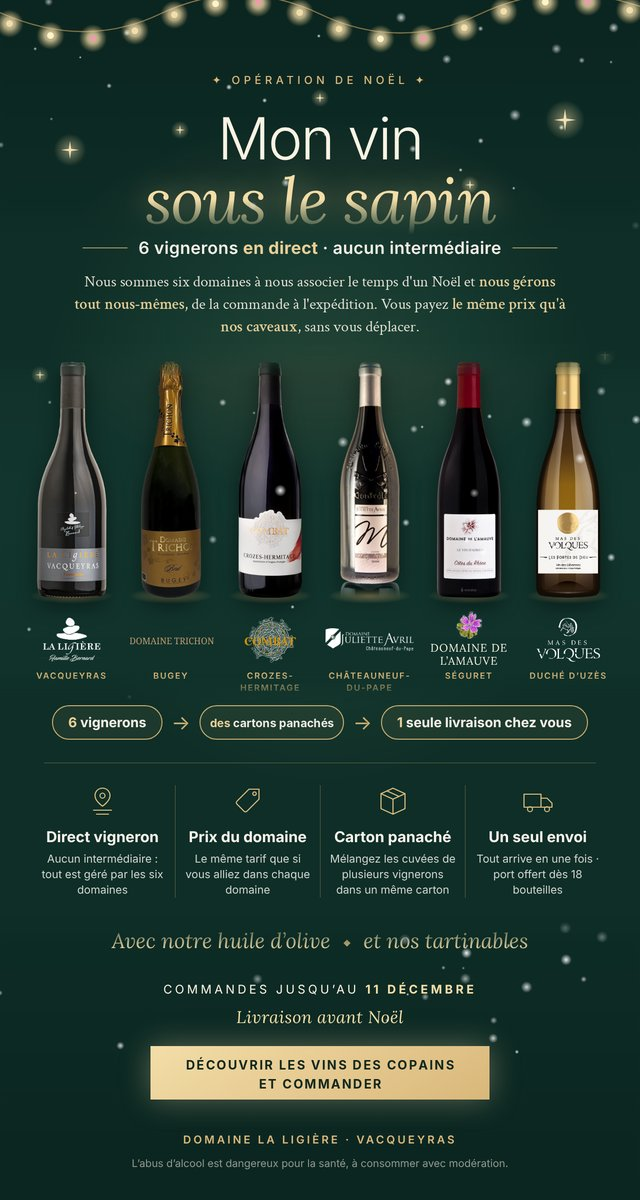
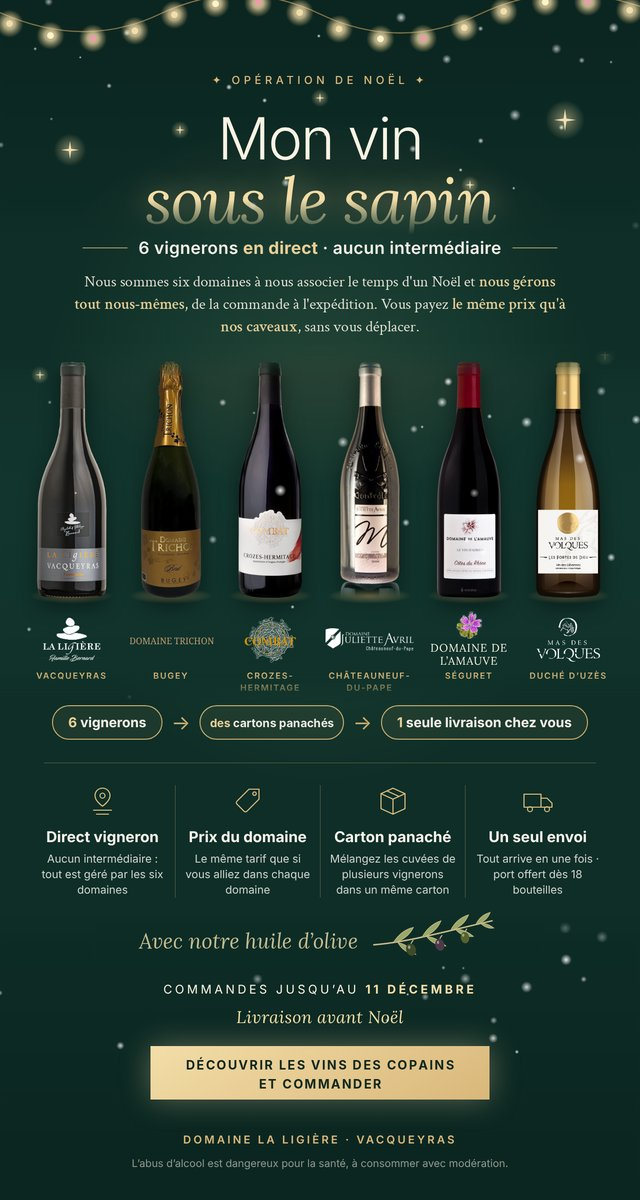
Onglet « Notre huile d'olive » (75 cl, 22 €), mise à jour des cuvées, prix et millésimes, zoom sur les bouteilles, visuel avec rameau d'olivier
Claude-Session: https://claude.ai/code/session_016Jhk7mVKL7LLXBijkLCSDG

Changed region(s): [[0.1875, 0.74, 0.8125, 0.8017]]

diff --git a/index.html b/index.html
@@ -182,12 +182,37 @@ footer{color:#d8d0c2;border-top-color:rgba(243,217,160,.25)}
 .tabs a{opacity:1;font-size:16px;font-weight:700;letter-spacing:.01em;color:#fff;text-shadow:0 1px 2px rgba(0,0,0,.35);border:2px solid rgba(255,255,255,.7)}
 .tabs a:hover,.tabs a:focus-visible{border-color:#f3d9a0;filter:brightness(1.15);box-shadow:0 0 0 3px rgba(243,217,160,.35)}
 .tabs a[aria-current=page]{border-width:3px;border-color:#f3d9a0;box-shadow:0 0 0 3px rgba(243,217,160,.45)}
+
+/* Zoom sur la bouteille au survol */
+.card{overflow:visible}
+.vis{border-radius:12px 0 0 12px;position:relative;z-index:1}
+.vis img{transition:transform .35s ease,filter .35s ease;transform-origin:center center;cursor:zoom-in;position:relative}
+.vis img:hover{transform:scale(2.1);z-index:6;filter:drop-shadow(0 14px 22px rgba(0,0,0,.35))}
+.card:has(.vis img:hover){z-index:5}
+@media(prefers-reduced-motion:reduce){.vis img{transition:none}}
+
+/* Onglet huile d'olive */
+#vHuile,#vCmd{min-height:calc(100vh - 60px)}
+#tHuile{background:#5f6f22}
+body[data-view=huile]{--gr:#4f5d1c;background-color:#1a2410}
+body[data-view=huile] .tabs,body[data-view=huile] header{background-color:#4f5d1c}
+.oilwrap{display:grid;grid-template-columns:minmax(0,260px) minmax(0,1fr);gap:clamp(20px,4vw,48px);align-items:center;background:var(--card);border-radius:18px;padding:clamp(18px,3vw,40px);border:2px solid rgba(243,217,160,.4);box-shadow:0 18px 50px rgba(0,0,0,.35)}
+.oilpic{display:flex;justify-content:center;background:radial-gradient(circle at 50% 60%,#f4efd8,#fff 70%);border-radius:14px;padding:20px}
+.oilpic img{height:340px;width:auto;transition:transform .35s ease;cursor:zoom-in}.oilpic img:hover{transform:scale(1.25)}
+.oilkick{margin:0;color:#6b7a2a;font-weight:600;font-size:14px}
+#vHuile h2{font:400 clamp(30px,4vw,44px)/1.05 "DM Serif Display",Georgia,serif;margin:6px 0 10px}
+.oillead{font-size:17px;margin:0 0 14px;max-width:60ch}
+.oilbuy{display:flex;flex-wrap:wrap;gap:14px;align-items:center;margin-top:18px}
+.oilprice{font:600 30px Inter,sans-serif;color:#4f5d1c;white-space:nowrap}
+.oilgo{width:auto;margin-top:0;background:#4f5d1c;border-color:#4f5d1c}
+@media(max-width:700px){.oilwrap{grid-template-columns:minmax(0,1fr)}.oilpic img{height:260px}}
 </style>
 </head>
 <body>
 <div class="neige" aria-hidden="true"></div>
 <nav class="tabs" aria-label="Navigation">
   <a href="#tarif" id="tTarif">Découvrir les vins</a>
+  <a href="#huile" id="tHuile">Notre huile d'olive</a>
   <a href="#commande" id="tCmd">Commander <b id="tCount" hidden>0</b></a>
 </nav>
 <header class="band"><div class="wrap">
@@ -304,6 +329,21 @@ footer{color:#d8d0c2;border-top-color:rgba(243,217,160,.25)}
 <main class="band"><div class="grid" id="grid"></div></main>
 <div class="mini" id="mini" hidden><div class="mi-t"><b id="miq">0</b> bouteille(s) · <b id="mit">0 €</b><span id="mim"></span></div><a class="mi-go" href="#commande">Voir ma commande →</a></div>
 </div>
+<section id="vHuile" class="band" hidden><div class="wrap oilwrap">
+  <div class="oilpic"><img id="oilImg" src="img/ll-huile.webp" alt="Bouteille d'huile d'olive du Domaine La Ligière, 75 cl"></div>
+  <div class="oiltxt">
+    <p class="oilkick">Domaine La Ligière · Vacqueyras</p>
+    <h2>Notre huile d'olive</h2>
+    <p class="oillead">Nous cultivons nos oliviers à Vacqueyras, en agriculture biologique. Ajoutez notre huile à votre carton : elle se panache avec les vins.</p>
+    <div class="tags"><span class="tag">Huile d'olive vierge extra</span><span class="tag bio">Bio</span><span class="tag">Bouteille 75 cl</span></div>
+    <dl><div><dt>Dégustation</dt><dd>L'huile de nos oliviers, cultivés en agriculture biologique à Vacqueyras.</dd></div>
+    <div><dt>Accords</dt><dd>Salades, légumes grillés, poissons, ou tout simplement sur une tranche de pain grillé.</dd></div></dl>
+    <div class="oilbuy"><span class="oilprice">22 €</span>
+      <div class="qty"><button type="button" id="oilMinus" aria-label="Retirer une bouteille">−</button><input type="number" id="oilQ" min="1" value="1" aria-label="Nombre de bouteilles d'huile"><button type="button" id="oilPlus" aria-label="Ajouter une bouteille">+</button></div>
+      <button class="buy oilgo" id="oilAdd" type="button">Ajouter à ma commande</button></div>
+    <p class="sub" id="oilIn"></p>
+  </div>
+</div></section>
 <section id="vCmd" class="band" hidden><div class="wrap">
   <a class="back" href="#tarif">← Découvrir les vins</a>
   <ol class="steps" aria-label="Étapes de la commande"><li class="on"><b>1</b> Vos vins</li><li><b>2</b> Vos coordonnées</li><li><b>3</b> Envoi</li></ol>
@@ -346,7 +386,7 @@ footer{color:#d8d0c2;border-top-color:rgba(243,217,160,.25)}
 </div></section>
 
 <footer class="band"><div class="wrap">
-  <p>Prix TTC la bouteille 75 cl, sauf mention contraire. « Prix sur demande » : tarif non communiqué à ce jour.</p>
+  <p>Prix TTC la bouteille de 75 cl.</p>
   <p>Visuels non contractuels. Les descriptifs de dégustation et accords sont rédigés pour ce tarif.</p>
   <p>L'abus d'alcool est dangereux pour la santé, à consommer avec modération.</p>
 </div></footer>
@@ -360,16 +400,16 @@ const DCOL={[LL]:"#6d1b2e",[JA]:"#1f3d5c",[DC]:"#3c2a4d",[AM]:"#8a5a1f",[MV]:"#2
 const W=[
 {d:LL,a:"IGP Méditerranée",n:"Sud Absolu",c:"Blanc",img:"ll-sud-blanc",b:"BIO",m:"2024",p:8,g:"Assemblage de cépages blancs méditerranéens",t:"Vif et fruité, notes d'agrumes et de fleurs blanches.",x:"Apéritif, salades composées, poissons grillés."},
 {d:LL,a:"IGP Méditerranée",n:"Le Viognier",img:"ll-viognier",c:"Blanc",b:"BIO",m:"2026",p:10,g:"Viognier",v:1,t:"Nez d'abricot et de pêche blanche, bouche ronde et florale.",x:"Cuisine asiatique, volaille à la crème, chèvre frais."},
-{d:LL,a:"AOP Vacqueyras",n:"Le Chemin Blanc",img:"ll-chemin-blanc",c:"Blanc",b:"BIO",m:"2024",p:16,r:"Existe en magnum",g:"Grenache blanc, clairette, roussanne, viognier",t:"Ample, fruits jaunes et amande, finale fraîche.",x:"Saint-Jacques, poissons en sauce, volaille."},
+{d:LL,a:"AOP Vacqueyras",n:"Le Chemin Blanc",img:"ll-chemin-blanc",c:"Blanc",b:"BIO",r:"Existe en magnum",m:"2024",p:16,g:"Grenache blanc, clairette, roussanne, viognier",t:"Ample, fruits jaunes et amande, finale fraîche.",x:"Saint-Jacques, poissons en sauce, volaille."},
 {d:LL,a:"IGP Méditerranée",n:"Sud Absolu",c:"Rosé",img:"ll-sud-rose",b:"BIO",m:"2025",p:8,g:"Grenache, cinsault",t:"Léger et désaltérant, fruits rouges acidulés.",x:"Apéritif, grillades, cuisine d'été."},
 {d:LL,a:"AOP Vacqueyras",n:"La Ligière rosé",img:"ll-rose",c:"Rosé",b:"BIO",m:"2025",p:14,g:"Grenache, cinsault, syrah",t:"Rosé de gastronomie, structuré, fruits rouges et épices douces.",x:"Tapenade, tian provençal, cuisine épicée."},
 {d:LL,a:"IGP Méditerranée",n:"Le Canébier",img:"ll-canebier",c:"Rouge",b:"BIO",m:"2022",p:9,g:"Grenache, syrah, carignan",t:"Fruité et gourmand, à boire sur le fruit.",x:"Charcuterie, pizza, barbecue."},
 {d:LL,a:"AOP Côtes-du-Rhône",n:"Les Costebelles",img:"ll-costebelles",c:"Rouge",b:"BIO",m:"2024",p:10.5,g:"Grenache, syrah",t:"Fruits rouges, souple et digeste.",x:"Viandes blanches, pâtes, repas du quotidien."},
 {d:LL,a:"AOP Côtes-du-Rhône",n:"Les Capelles",img:"ll-capelles",c:"Rouge",b:"BIO",m:"2023",p:11.5,g:"Grenache, syrah, mourvèdre",t:"Fruits noirs, garrigue, tanins fondus.",x:"Côte de porc, lasagnes, fromages doux."},
-{d:LL,a:"AOP Beaumes-de-Venise",n:"Les Garennes",img:"ll-garennes",c:"Rouge",b:"BIO",m:"2024",p:14,r:"Existe en magnum",g:"Grenache, syrah",t:"Fraîcheur des Dentelles, fruits noirs et poivre.",x:"Agneau, gibier à plume, fromages affinés."},
+{d:LL,a:"AOP Beaumes-de-Venise",n:"Les Garennes",img:"ll-garennes",c:"Rouge",b:"BIO",r:"Existe en magnum",m:"2024",p:14,g:"Grenache, syrah",t:"Fraîcheur des Dentelles, fruits noirs et poivre.",x:"Agneau, gibier à plume, fromages affinés."},
 {d:LL,a:"AOP Vacqueyras",n:"Le Classique",img:"ll-classique",c:"Rouge",b:"BIO",m:"2024",p:14,g:"Grenache, syrah, mourvèdre",t:"Fruits noirs mûrs, épices et garrigue, belle structure.",x:"Daube provençale, gigot, côte de bœuf."},
-{d:LL,a:"AOP Vacqueyras",n:"Mourre de la Caille",img:"ll-mourre",c:"Rouge",b:"BIO",m:"2024",p:16,r:"Existe en magnum",g:"Grenache, syrah, mourvèdre",t:"Cuvée de terroir, concentrée : cassis, réglisse, thym.",x:"Gibier, bœuf braisé, plats truffés."},
-{d:LL,a:"AOP Vacqueyras",n:"Fumitarde",img:"ll-fumitarde",c:"Rouge",b:"BIO",m:"2023",p:18,r:"Existe en magnum",g:"Grenache, syrah, mourvèdre",t:"Puissant et profond, notes fumées et fruits confiturés.",x:"Civet, magret, plats mijotés."},
+{d:LL,a:"AOP Vacqueyras",n:"Mourre de la Caille",img:"ll-mourre",c:"Rouge",b:"BIO",r:"Existe en magnum",m:"2024",p:16,g:"Grenache, syrah, mourvèdre",t:"Cuvée de terroir, concentrée : cassis, réglisse, thym.",x:"Gibier, bœuf braisé, plats truffés."},
+{d:LL,a:"AOP Vacqueyras",n:"Fumitarde",img:"ll-fumitarde",c:"Rouge",b:"BIO",r:"Existe en magnum",m:"2023",p:18,g:"Grenache, syrah, mourvèdre",t:"Puissant et profond, notes fumées et fruits confiturés.",x:"Civet, magret, plats mijotés."},
 {d:LL,a:"AOP Vacqueyras",n:".G",img:"ll-g",c:"Rouge",b:"BIO",m:"2023",p:22,g:"Assemblage Vacqueyras",t:"Haut de gamme, dense et soyeux, beau potentiel de garde.",x:"Filet de bœuf, pigeon, fromages de caractère."},
 {d:LL,a:"AOP Gigondas",n:"Les Bergines",img:"ll-bergines",c:"Rouge",b:"BIO",m:"2023",p:22,g:"Grenache, syrah, mourvèdre",t:"Puissance et finesse, fruits noirs, épices, touche minérale.",x:"Gibier, agneau de sept heures, cèpes."},
 {d:LL,a:"AOP Muscat de Beaumes-de-Venise",n:"Chante Coucou Blanc",img:"ll-muscat-blanc",c:"Vin doux",s:"",b:"BIO",m:"2024",p:14,g:"Muscat à petits grains",v:1,t:"Vin doux naturel au nez explosif : fruits exotiques, agrumes confits, fleurs.",x:"Apéritif, foie gras, melon, desserts aux fruits."},
@@ -377,30 +417,24 @@ const W=[
 {d:LL,a:"AOP Côtes-du-Rhône",n:"Ad Terraneus",img:"ll-adterraneus",c:"Rouge",s:"Sans sulfites ajoutés",b:"BIO",m:"2023",p:13,g:"Grenache, syrah",t:"Fruit croquant, très digeste.",x:"Charcuterie, tapas, cuisine du marché."},
 {d:LL,a:"Vin de France",n:"C'est pas grave !",img:"ll-cestpasgrave",c:"Rouge",s:"Sans sulfites ajoutés",b:"BIO",m:"2023",p:12,g:"Assemblage de cépages rouges",t:"Gourmand et désaltérant.",x:"Apéro entre amis, burgers, grillades."},
 {d:LL,a:"IGP Méditerranée",n:"Insomnia",img:"ll-insomnia",c:"Rouge",s:"Sans sulfites ajoutés",b:"BIO",m:"2024",p:11,g:"Assemblage de cépages rouges méditerranéens",t:"Fruit pur et éclatant, souple.",x:"Viandes grillées, cuisine du monde."},
-{d:LL,a:"Boisson partiellement fermentée",n:"Je Veux des Bulles dans ma Vie",img:"ll-bulles",c:"Effervescent",s:"Low alcool",b:"BIO",m:"2025",p:10,r:"5,5 % vol.",g:"Raisin partiellement fermenté",t:"Bulles légères et fruitées, 5,5 % vol.",x:"Apéritif, brunch, desserts légers."},
+{d:LL,a:"Boisson partiellement fermentée",n:"Je Veux des Bulles dans ma Vie",img:"ll-bulles",c:"Effervescent",s:"Low alcool",b:"BIO",r:"5,5 % vol.",m:"2025",p:10,g:"Raisin partiellement fermenté",t:"Bulles légères et fruitées, 5,5 % vol.",x:"Apéritif, brunch, desserts légers."},
+{d:LL,oil:1,a:"Huile d'olive vierge extra",n:"Huile d'olive La Ligière",img:"ll-huile",c:"Huile d'olive",b:"BIO",p:22,r:"Bouteille 75 cl",g:"",t:"L'huile de nos oliviers, cultivés en agriculture biologique à Vacqueyras.",x:"Salades, légumes grillés, poissons, ou tout simplement sur une tranche de pain grillé."},
 {d:JA,a:"AOP Châteauneuf-du-Pape",n:"Cuvée Maxence",img:"ja-maxence",c:"Rouge",b:"HVE",m:"2018",p:43.5,g:"Grenache, syrah, mourvèdre",t:"Puissance, élégance et finesse, grande garde.",x:"Gibier, lièvre, plats truffés."},
 {d:JA,a:"AOP Châteauneuf-du-Pape",n:"Traditionnel",img:"ja-traditionnel",c:"Rouge",b:"HVE",m:"2022",p:30,g:"Grenache, syrah, mourvèdre",t:"La rondeur domine et gagne tout le palais, fruits noirs et épices.",x:"Agneau, bœuf en sauce, fromages affinés."},
 {d:JA,a:"AOP Cairanne",n:"Cuvée Maïlys",img:"ja-mailys",c:"Rouge",b:"HVE",m:"2021",p:15,g:"Grenache, syrah, mourvèdre",t:"Rond, ample et généreux, tanins souples et mûrs.",x:"Volaille rôtie, magret, ratatouille."},
 {d:JA,a:"AOP Côtes-du-Rhône Villages Plan de Dieu",n:"Cuvée Léandre",img:"ja-leandre",c:"Rouge",b:"HVE",m:"2021",p:12.5,g:"Grenache, syrah",t:"Belle concentration tannique, avec rondeur et souplesse.",x:"Grillades, côte de veau, terrines."},
 {d:JA,a:"AOP Côtes-du-Rhône",n:"Côtes-du-Rhône",img:"ja-cdr",c:"Rouge",b:"HVE",m:"2022",p:10.5,g:"Grenache, syrah",t:"Plus riche qu'un Côtes-du-Rhône classique, fruité et gourmand.",x:"Pizza, charcuterie, plats du quotidien."},
-{d:DC,a:"AOP Crozes-Hermitage",n:"Cuvée Domaine Blanc",img:"dc-blanc",c:"Blanc",b:"HVE",g:"Marsanne, roussanne",t:"Fleurs blanches et fruits jaunes, bouche ronde et fraîche.",x:"Poissons de rivière, volaille à la crème, chèvre."},
-{d:DC,a:"AOP Crozes-Hermitage",n:"Cuvée Domaine Rouge",img:"dc-rouge",c:"Rouge",b:"HVE",g:"Syrah",v:1,t:"Syrah du nord : fruits noirs, violette, poivre.",x:"Côte de bœuf, saucisson, cuisine bistrot."},
-{d:DC,a:"AOP Crozes-Hermitage",n:"Cuvée Bacchus",img:"dc-bacchus",c:"Rouge",b:"HVE",g:"Syrah",v:1,t:"Plus structuré : mûre, réglisse, épices.",x:"Gibier, agneau, fromages affinés."},
-{d:DC,a:"AOP Crozes-Hermitage",n:"Cuvée Exception'Elle",img:"dc-exception",c:"Rouge",b:"HVE",g:"Syrah",v:1,t:"Cuvée de prestige, dense et élégante, belle garde.",x:"Filet de bœuf, pigeon, plats en sauce."},
-{d:AM,a:"AOP Côtes-du-Rhône Villages Séguret",n:"La Daurèle",img:"am-daurele",c:"Blanc",b:"BIO",g:"Grenache blanc, clairette, viognier, ugni blanc",v:1,t:"Frais et floral, notes de fruits blancs.",x:"Apéritif, poissons, chèvre frais."},
-{d:AM,a:"AOP Côtes-du-Rhône Villages Séguret",n:"Le rosé de Simone",img:"am-simone",c:"Rosé",b:"BIO",g:"Grenache noir, mourvèdre, cinsault, carignan",v:1,t:"Rosé de caractère, fruits rouges et épices.",x:"Cuisine méditerranéenne, grillades."},
-{d:AM,a:"AOP Côtes-du-Rhône Villages Séguret",n:"Laurances",img:"am-laurances",c:"Rouge",b:"BIO",g:"Grenache noir, syrah",v:1,t:"Fruits rouges, souple et frais.",x:"Viandes blanches, charcuterie."},
-{d:AM,a:"AOP Côtes-du-Rhône Villages Séguret",n:"Estelles",img:"am-estelles",c:"Rouge",b:"BIO",g:"Grenache noir, syrah, mourvèdre",v:1,t:"Fruits noirs, garrigue, belle structure.",x:"Agneau, daube."},
-{d:AM,a:"AOP Côtes-du-Rhône Villages Séguret",n:"Les Merrelies",img:"am-merrelies",c:"Rouge",b:"BIO",g:"Grenache noir, syrah",v:1,t:"Concentré, fruits mûrs et épices.",x:"Viandes rouges, gibier."},
-{d:AM,a:"AOP Côtes-du-Rhône Villages Séguret",n:"Réserve",img:"am-reserve",c:"Rouge",b:"BIO",g:"Grenache noir, syrah",v:1,t:"Ample et épicé, belle profondeur.",x:"Bœuf braisé, fromages affinés."},
-{d:AM,a:"AOP Côtes-du-Rhône",n:"Le Vin d'Adrien",img:"am-adrien",c:"Rouge",b:"BIO",g:"Grenache noir, syrah, cinsault, carignan",v:1,t:"Fruité et facile, plaisir immédiat.",x:"Repas du quotidien, pizza."},
-{d:AM,a:"IGP Vaucluse",n:"Le rosé d'Yvonne",img:"am-yvonne",c:"Rosé",b:"BIO",g:"Grenache noir, caladoc",v:1,t:"Léger et fruité.",x:"Apéritif, salades."},
-{d:AM,a:"IGP Vaucluse",n:"La vigne de Louis",img:"am-louis",c:"Rouge",b:"BIO",g:"Grenache noir, syrah",v:1,t:"Gourmand et souple.",x:"Grillades, barbecue."},
-{d:MV,a:"AOP Duché d'Uzès",n:"Alba Dolia",img:"mv-alba",c:"Blanc",g:"Viognier, grenache blanc, roussanne",t:"Fruits blancs et fleurs, bouche fraîche.",x:"Poissons grillés, brandade."},
-{d:MV,a:"AOP Duché d'Uzès",n:"Esus",img:"mv-esus",c:"Rouge",g:"Syrah, grenache",t:"Fruits noirs et garrigue.",x:"Viandes rouges, gardiane de taureau."},
-{d:MV,a:"IGP Cévennes",n:"Les Portes de Dieu",img:"mv-portes2",c:"Blanc",g:"Chardonnay",v:1,t:"Ample, fruits jaunes et notes beurrées.",x:"Volaille, poissons en sauce."},
-{d:MV,a:"AOP Duché d'Uzès",n:"Volcae",img:"mv-volcae",c:"Rouge",g:"Syrah, grenache",t:"Structuré, fruits mûrs et épices.",x:"Gigot, côte de bœuf."},
-{d:MV,a:"AOP Duché d'Uzès",n:"Urnia",img:"mv-urnia",c:"Rosé",g:"Grenache, cinsault, syrah",t:"Frais et fruité.",x:"Apéritif, cuisine d'été."},
+{d:DC,a:"AOP Crozes-Hermitage",n:"Cuvée Domaine Blanc",img:"dc-blanc",c:"Blanc",b:"HVE",m:"2023",p:18.5,g:"Marsanne, roussanne",t:"Fleurs blanches et fruits jaunes, bouche ronde et fraîche.",x:"Poissons de rivière, volaille à la crème, chèvre."},
+{d:DC,a:"AOP Crozes-Hermitage",n:"Cuvée Domaine Rouge",img:"dc-rouge",c:"Rouge",b:"HVE",m:"2022",p:17.5,g:"Syrah",v:1,t:"Syrah du nord : fruits noirs, violette, poivre.",x:"Côte de bœuf, saucisson, cuisine bistrot."},
+{d:AM,a:"AOP Côtes-du-Rhône Villages Séguret",n:"Laurances",img:"am-laurances",c:"Rouge",b:"BIO",m:"2023",p:11.5,g:"Grenache noir, syrah",v:1,t:"Fruits rouges, souple et frais.",x:"Viandes blanches, charcuterie."},
+{d:AM,a:"AOP Côtes-du-Rhône Villages Séguret",n:"Estelles",img:"am-estelles",c:"Rouge",b:"BIO",m:"2023",p:13.5,g:"Grenache noir, syrah, mourvèdre",v:1,t:"Fruits noirs, garrigue, belle structure.",x:"Agneau, daube."},
+{d:AM,a:"AOP Côtes-du-Rhône Villages Séguret",n:"Les Merrelies",img:"am-merrelies",c:"Rouge",b:"BIO",m:"2023",p:15.5,g:"Grenache noir, syrah",v:1,t:"Concentré, fruits mûrs et épices.",x:"Viandes rouges, gibier."},
+{d:AM,a:"AOP Côtes-du-Rhône Villages Séguret",n:"Réserve",img:"am-reserve",c:"Rouge",b:"BIO",m:"2024",p:25,g:"Grenache noir, syrah",v:1,t:"Ample et épicé, belle profondeur.",x:"Bœuf braisé, fromages affinés."},
+{d:AM,a:"IGP Vaucluse",n:"La vigne de Louis",img:"am-louis",c:"Rouge",b:"BIO",m:"2024",p:9.5,g:"Grenache noir, syrah",v:1,t:"Gourmand et souple.",x:"Grillades, barbecue."},
+{d:MV,a:"AOP Duché d'Uzès",n:"Alba Dolia",img:"mv-alba",c:"Blanc",m:"2023",p:14,g:"Viognier, grenache blanc, roussanne",t:"Fruits blancs et fleurs, bouche fraîche.",x:"Poissons grillés, brandade."},
+{d:MV,a:"AOP Duché d'Uzès",n:"Esus",img:"mv-esus",c:"Rouge",m:"2022",p:9.5,g:"Syrah, grenache",t:"Fruits noirs et garrigue.",x:"Viandes rouges, gardiane de taureau."},
+{d:MV,a:"IGP Cévennes",n:"Les Portes de Dieu",img:"mv-portes2",c:"Blanc",m:"2024",p:9.5,g:"Chardonnay",v:1,t:"Ample, fruits jaunes et notes beurrées.",x:"Volaille, poissons en sauce."},
+{d:MV,a:"AOP Duché d'Uzès",n:"Volcae",img:"mv-volcae",c:"Rouge",m:"2019",p:14,g:"Syrah, grenache",t:"Structuré, fruits mûrs et épices.",x:"Gigot, côte de bœuf."},
 {d:TR,a:"AOP Bugey",n:"Chardonnay",img:"tr-chardonnay",c:"Blanc",b:"BIO",m:"2020",p:12,g:"Chardonnay",v:1,t:"Fin et minéral, fruits blancs et noisette.",x:"Poissons de lac, volaille, comté."},
 {d:TR,a:"AOC Roussette du Bugey",n:"Altesse",img:"tr-altesse",c:"Blanc",b:"BIO",m:"2025",p:14.5,g:"Altesse",v:1,t:"Amande, fruits secs, bergamote, belle fraîcheur.",x:"Fondue, poissons de lac, beaufort."},
 {d:TR,a:"AOP Bugey",n:"Et si on essayait ?",img:"tr-essayait",c:"Blanc",s:"Sans sulfites ajoutés",b:"BIO",m:"2025",p:12.5,g:"Chardonnay",t:"Fruit pur et vivant.",x:"Apéritif, fruits de mer."},
@@ -409,7 +443,7 @@ const W=[
 {d:TR,a:"AOP Bugey",n:"Mondeuse",img:"tr-mondeuse",c:"Rouge",b:"BIO",m:"2024",p:11.5,g:"Mondeuse",v:1,t:"Poivrée, violette et fruits noirs.",x:"Diots, gibier, plats savoyards."},
 {d:TR,a:"AOC Bugey tradition",n:"Extra-Brut",img:"tr-extra-brut2",c:"Effervescent",b:"BIO",p:12,g:"Chardonnay, pinot noir, molette, aligoté",v:1,t:"Bulles fines, très sec et ciselé.",x:"Apéritif, huîtres."},
 {d:TR,a:"AOC Bugey tradition",n:"Brut",img:"tr-brut2",c:"Effervescent",b:"BIO",p:12,g:"Chardonnay, pinot noir",t:"Bulles fines, fruité et frais.",x:"Apéritif, desserts légers."},
-{d:TR,a:"Vin de France",n:"Cuisse Rose",img:"tr-cuisse-rose2",c:"Effervescent",rose:1,s:"Low alcool",b:"BIO",p:12,r:"8-9 % vol., exclusivité du domaine",g:"",t:"Pétillant rosé léger, petits fruits rouges.",x:"Apéritif, desserts aux fruits rouges."},
+{d:TR,a:"Vin de France",n:"Cuisse Rose",img:"tr-cuisse-rose2",c:"Effervescent",rose:1,s:"Low alcool",b:"BIO",r:"8-9 % vol., exclusivité du domaine",p:12,g:"",t:"Pétillant rosé léger, petits fruits rouges.",x:"Apéritif, desserts aux fruits rouges."},
 {d:TR,a:"Jus de raisin",n:"Pétillant Zéro %",img:"tr-zero",c:"Sans alcool",s:"Sans alcool",b:"BIO",m:"2025",p:7.5,g:"100 % jus de raisin, pasteurisé et gazéifié",v:1,t:"Bulles et fruit, sans alcool.",x:"Apéritif pour tous, goûter de fête."},
 {d:TR,a:"Jus de raisin",n:"100 % Pur jus de raisin",img:"tr-jus",c:"Sans alcool",s:"Sans alcool",b:"BIO",m:"2025",p:5,g:"Assemblage de plusieurs cépages",v:1,t:"Pur jus, naturellement sucré.",x:"Petit-déjeuner, goûter."}
 ];
@@ -423,7 +457,7 @@ const $=id=>document.getElementById(id);
 const fill=(el,label,arr)=>el.innerHTML=`<option value="">${label}</option>`+arr.map(v=>`<option>${esc(v)}</option>`).join("");
 fill($("fDom"),"Tous les domaines",DOMS);
 fill($("fCol"),"Toutes les couleurs",COLS);
-fill($("fApp"),"Toutes les appellations",[...new Set(W.map(w=>w.a))].sort((a,b)=>a.localeCompare(b,"fr")));
+fill($("fApp"),"Toutes les appellations",[...new Set(W.filter(w=>!w.oil).map(w=>w.a))].sort((a,b)=>a.localeCompare(b,"fr")));
 
 const SH={
  bourg:{d:"M24 6h12v52c0 14 16 22 16 42v88a6 6 0 0 1-6 6H14a6 6 0 0 1-6-6v-88c0-20 16-28 16-42z",cap:[24,6,12,22],lab:[10,118,40,50]},
@@ -616,22 +650,27 @@ let viewTimer=[];
 function toView(){viewTimer.forEach(clearTimeout);viewTimer=[];place();[60,250,700].forEach(ms=>viewTimer.push(setTimeout(place,ms)));}
 addEventListener("wheel",()=>{viewTimer.forEach(clearTimeout);viewTimer=[]},{passive:true});
 addEventListener("touchmove",()=>{viewTimer.forEach(clearTimeout);viewTimer=[]},{passive:true});
-function place(){const c=location.hash==="#commande";
+function place(){const c=location.hash==="#commande",h=location.hash==="#huile";
  if(!location.hash){window.scrollTo(0,0);return}
- const el=c?$("vCmd"):$("vTarif"),tb=document.querySelector(".tabs");
+ const el=c?$("vCmd"):h?$("vHuile"):$("vTarif"),tb=document.querySelector(".tabs");
  const y=el.getBoundingClientRect().top+window.scrollY-(tb?tb.offsetHeight:0);
  window.scrollTo({top:Math.max(0,y),behavior:"auto"})}
-function route(){const c=location.hash==="#commande";setTimeout(badge,0);document.body.dataset.view=c?"cmd":"tarif";$("vTarif").hidden=c;$("vCmd").hidden=!c;
- $("tTarif").toggleAttribute("aria-current",!c);$("tCmd").toggleAttribute("aria-current",c);
- if(c){$("tCmd").setAttribute("aria-current","page")}else{$("tTarif").setAttribute("aria-current","page")}
- if(c)drawCart(window._hl);else render();window._hl=null;toView();
+function route(){const c=location.hash==="#commande",h=location.hash==="#huile";setTimeout(badge,0);document.body.dataset.view=c?"cmd":h?"huile":"tarif";
+ $("vTarif").hidden=c||h;$("vCmd").hidden=!c;$("vHuile").hidden=!h;
+ ["tTarif","tHuile","tCmd"].forEach(id=>$(id).removeAttribute("aria-current"));$(c?"tCmd":h?"tHuile":"tTarif").setAttribute("aria-current","page");
+ if(c)drawCart(window._hl);else if(h)drawOil();else render();window._hl=null;toView();
  window._lastHl=null}
+const OIL=W.findIndex(w=>w.oil);
+function drawOil(){const k=cart[OIL]||0;$("oilIn").textContent=k?`Déjà dans votre commande : ${k} bouteille${k>1?"s":""}.`:""}
+$("oilMinus").addEventListener("click",()=>{$("oilQ").value=Math.max(1,(parseInt($("oilQ").value,10)||1)-1)});
+$("oilPlus").addEventListener("click",()=>{$("oilQ").value=(parseInt($("oilQ").value,10)||0)+1});
+$("oilAdd").addEventListener("click",()=>{const q=Math.max(1,parseInt($("oilQ").value,10)||1);cart[OIL]=(cart[OIL]||0)+q;saveCart();window._hl=OIL;location.hash="commande"});
 const spec=new Set();
 const norm=s=>s.normalize("NFD").replace(/[̀-ͯ]/g,"").toLowerCase();
 function render(){
  uid=0;
  const d=$("fDom").value,c=$("fCol").value,a=$("fApp").value,so=$("fSort").value,q=norm($("fQ").value.trim());
- let list=W.map((w,i)=>({...w,i})).filter(w=>(!d||w.d===d)&&(!c||w.c===c)&&(!a||w.a===a)
+ let list=W.map((w,i)=>({...w,i})).filter(w=>!w.oil&&(!d||w.d===d)&&(!c||w.c===c)&&(!a||w.a===a)
   &&[...spec].every(s=>s==="BIO"?w.b==="BIO":(w.s||"")===s)
   &&(!q||norm([w.n,w.d,w.a,w.g,w.t,w.x,w.c].join(" ")).includes(q)));
  const key={dom:w=>w.d,col:w=>w.c,app:w=>w.a}[so];
@@ -647,7 +686,7 @@ function render(){
   html+=card(w);
  }
  $("grid").innerHTML=html||`<p class="empty">Aucune cuvée ne correspond à ces critères.</p>`;
- $("count").textContent=`${list.length} cuvée${list.length>1?"s":""} sur ${W.length}`;
+ $("count").textContent=`${list.length} cuvée${list.length>1?"s":""} sur ${W.filter(w=>!w.oil).length}`;
  $("reset").hidden=!(d||c||a||q||spec.size);
  document.querySelectorAll(".logo").forEach(b=>b.classList.toggle("on",b.dataset.d===d));
 }
